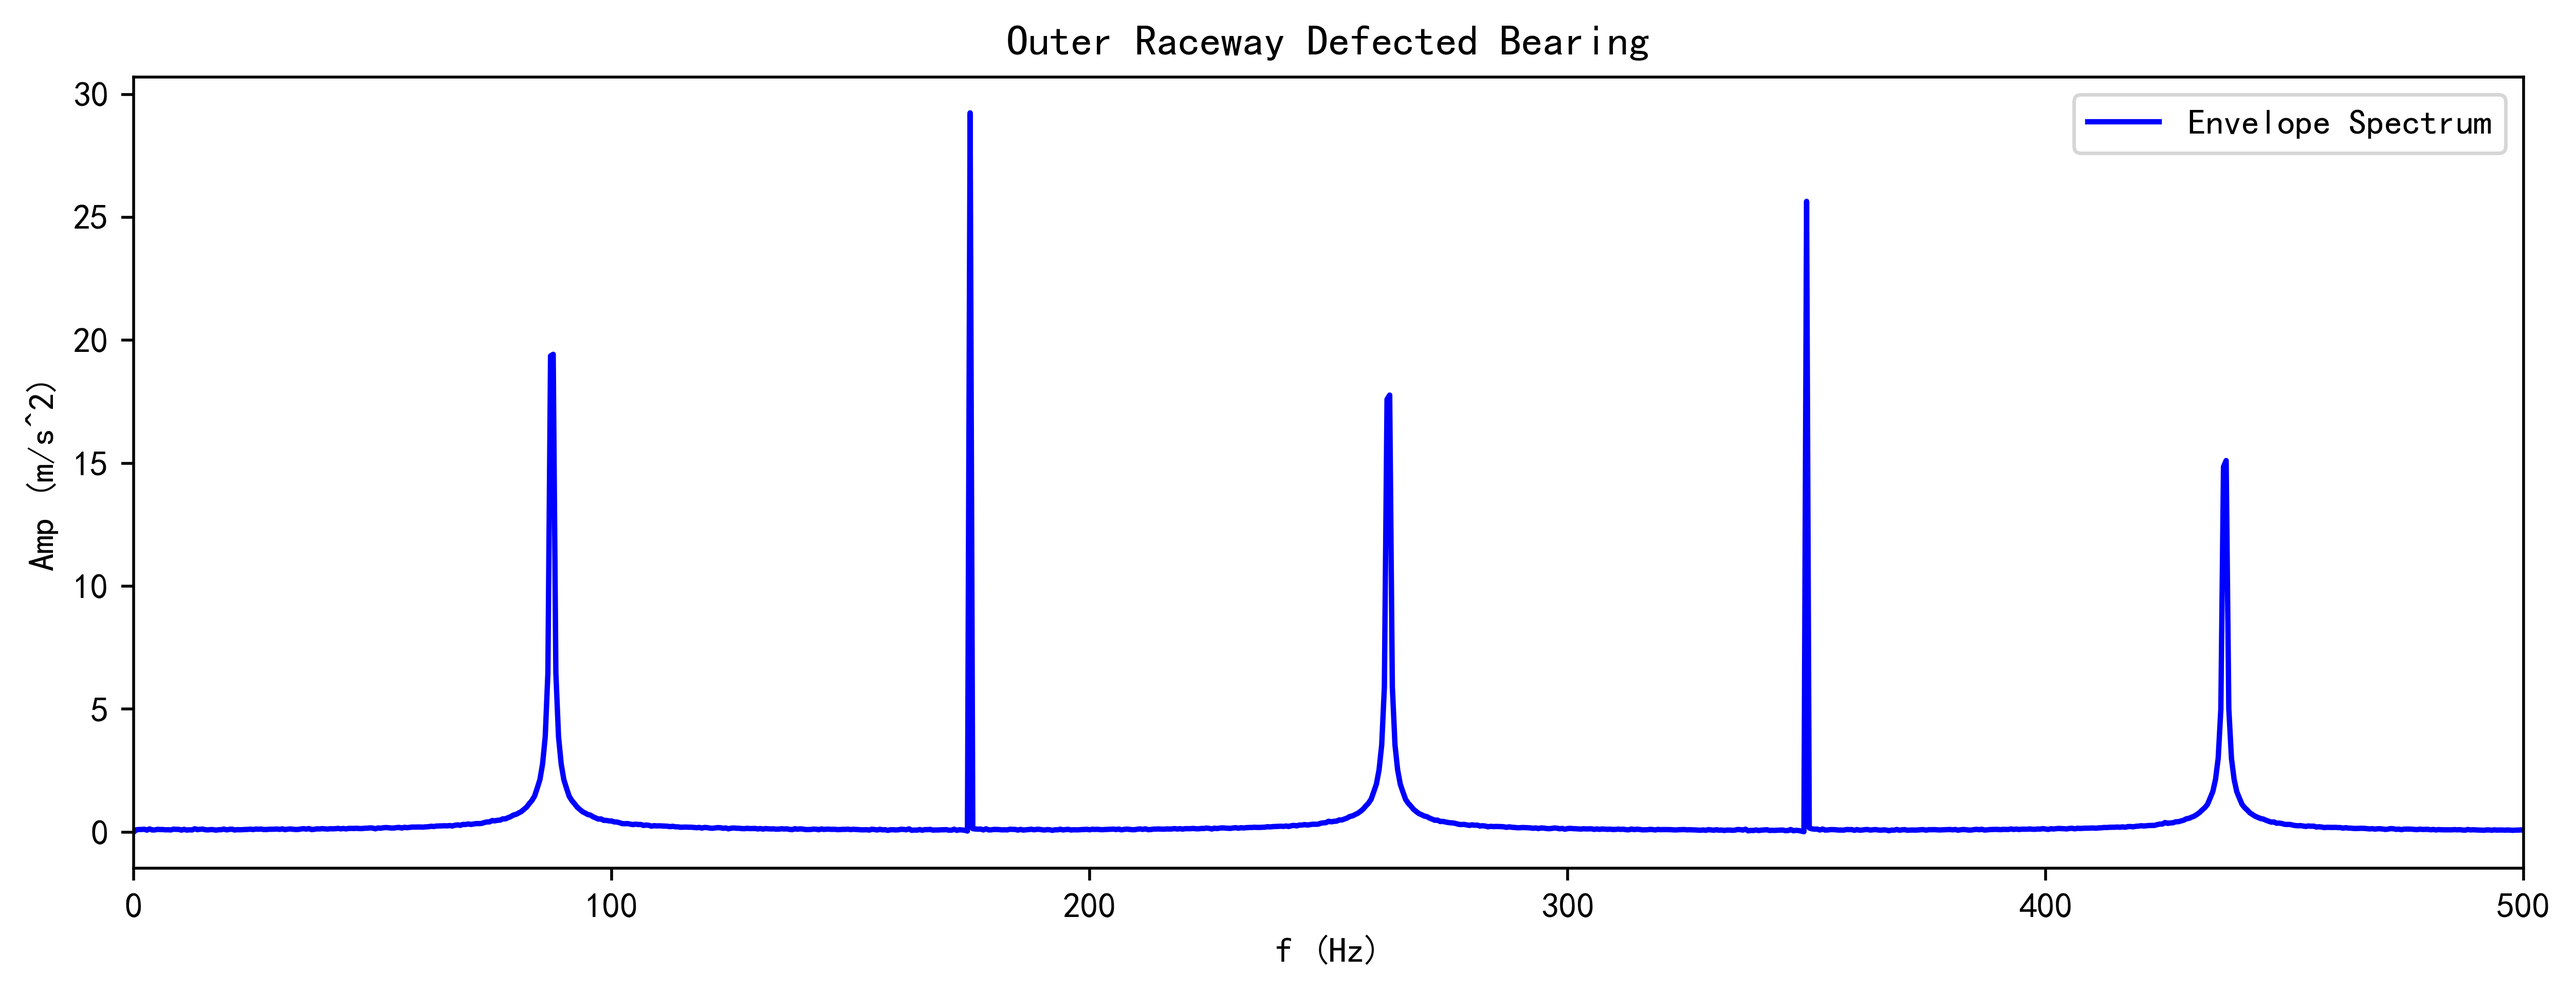
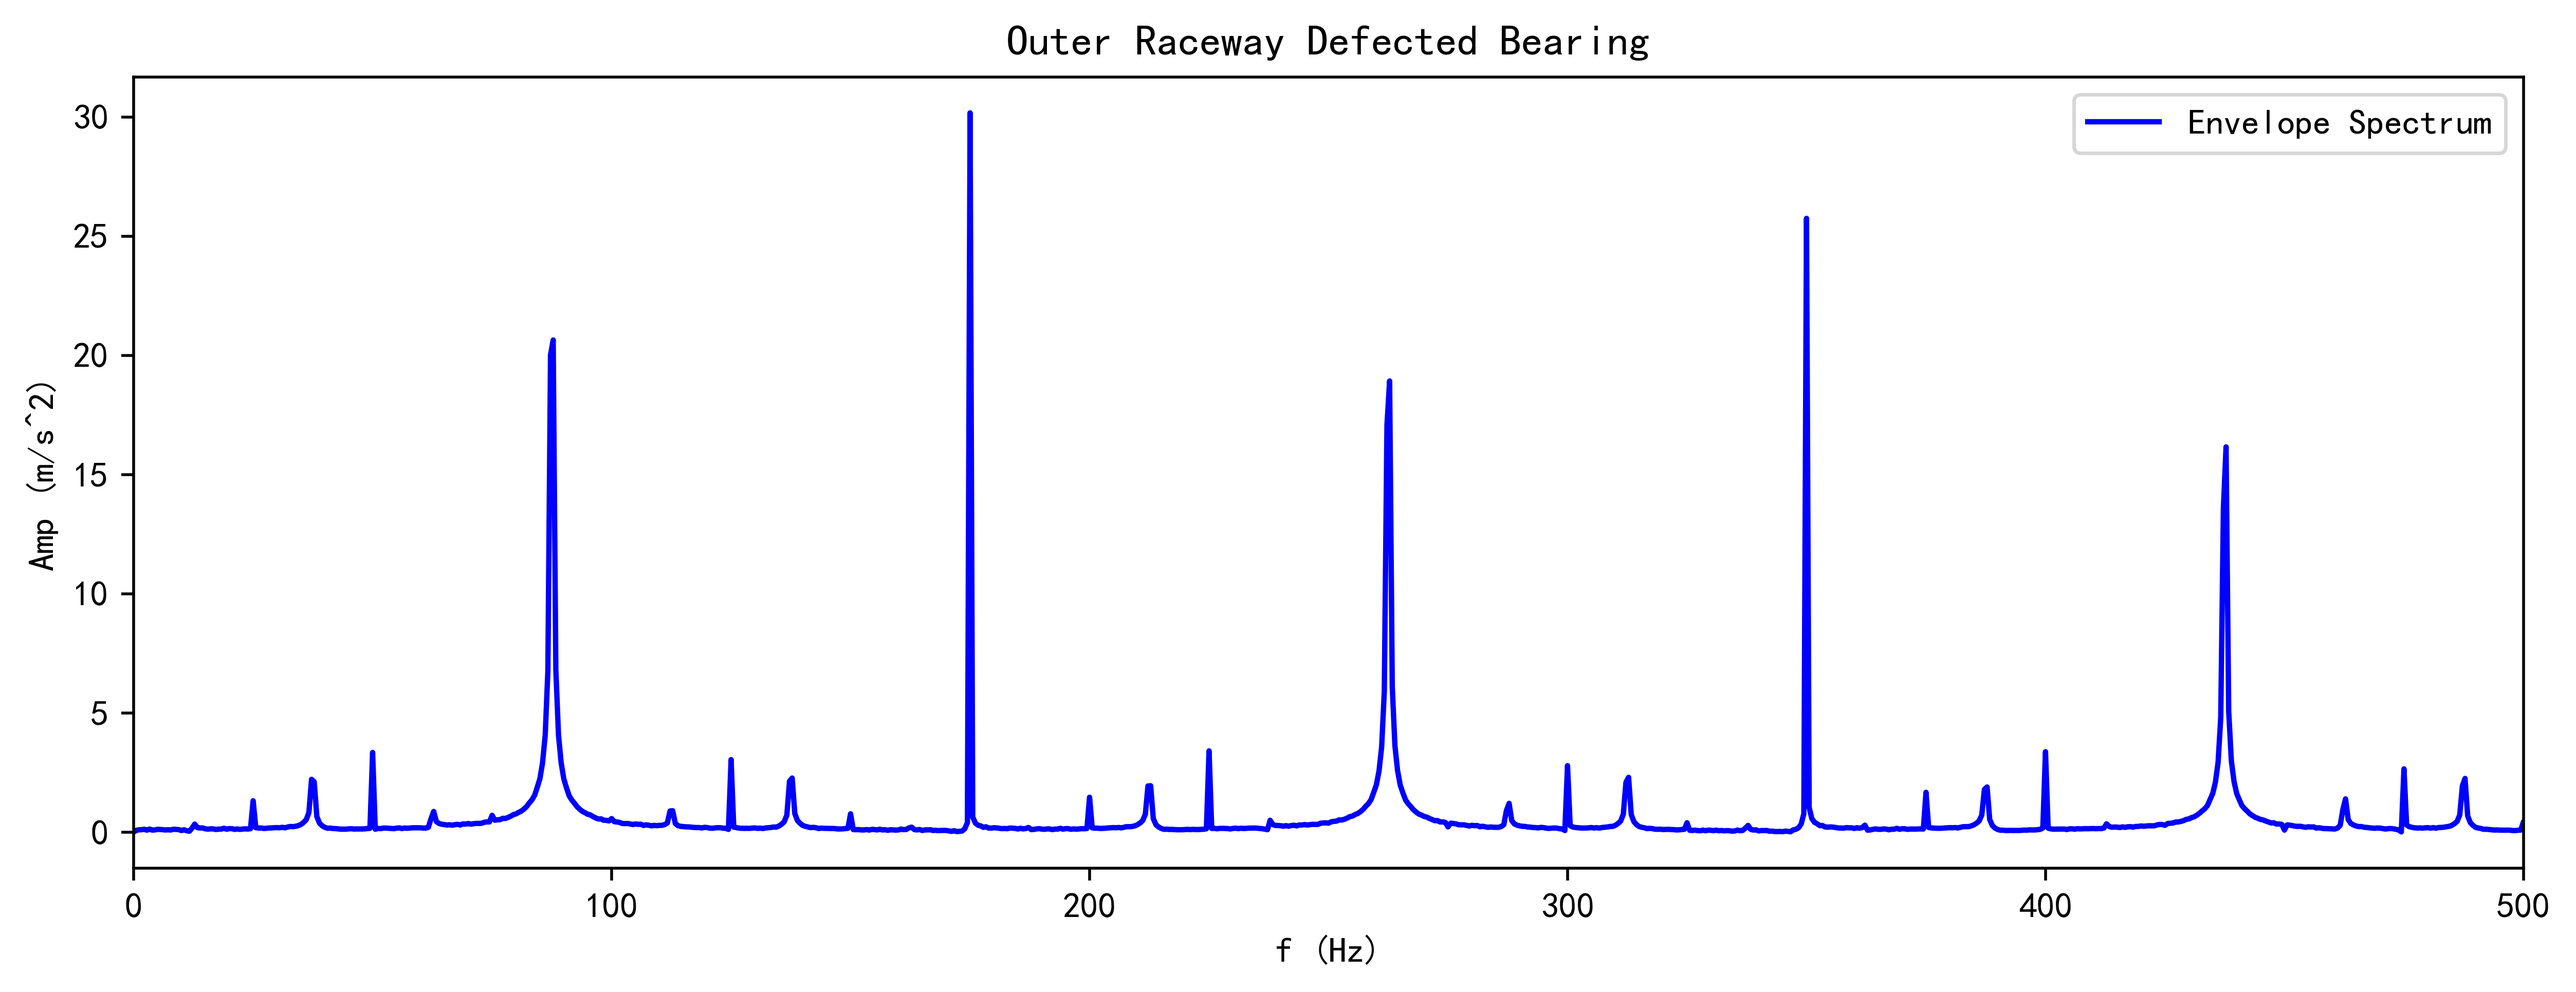
新增滚动体故障

diff --git a/main.py b/main.py
@@ -10,6 +10,7 @@ import mplcursors
 import dynamics_plot
 import time
 
+
 def load_K(filename):
     with open(f"{filename}.txt", "r") as f:
         lines = f.readlines()
@@ -164,8 +165,52 @@ def InnerDefect_bearing(fs=1e5, T=1):
     return result.t, dy
 
 
-def RollerDefect(fs=1e5, T=1):
-    pass
+def RollerDefect_bearing(fs=1e5, T=1):
+    filename = 'NUP205'
+    Ki, Ko = load_K(filename)
+    Nb = 13
+    mi = 5324.83e-9 * 7850
+    mo = 7664.64e-9 * 7850
+    Kbh = 1e7
+    Cbh = 1e3
+    Fr = 500
+    Rm = 19.5e-3
+    Rr = 3.75e-3
+    c = 1e-6
+    wi = 1000 / 60 * 2 * np.pi
+    wc = wi / 2 * (1 - Rr / Rm)
+    fs = int(fs)
+    t_span = np.linspace(0, T, T * fs + 1)
+    DOF = 4
+    y0 = np.zeros(DOF * 2)
+    '''
+    基于动力学仿真数据的双源域自适应滚动轴承故障诊断研究_梁栋.pdf
+    '''
+    B = 2e-3  # 故障宽度
+    phi_b = 2 * np.arcsin(B / 2 / Rr)
+    wr = wi * Rm / 2 / Rr * (1 - (Rr / Rm) ** 2)
+    Ro = Rm + Rr
+    Ri = Rm - Rr
+    Hbomax = Rr - np.sqrt(Rr ** 2 - (B / 2) ** 2) + Ro - np.sqrt(Ro ** 2 - (B / 2) ** 2)
+    Hbimax = Rr - np.sqrt(Rr ** 2 - (B / 2) ** 2) + Ri - np.sqrt(Ri ** 2 - (B / 2) ** 2)
+    alpha_b = 0
+    j = 1
+    # def ode_system(t, y,
+    #                Fr, Nb, mi, mo, wi, wc, Ki, Ko, Kbh, Cbh, c,
+    #                dC=0, phi_do=0, phi_oc=0,
+    #                dCi=0, phi_di=0, phi_oci=0,
+    #                Hbomax=0, Hbimax=0, phi_b=0, wr=0, alpha_b=0, j=1):
+    result = solve_ivp(BearingModel.ode_system, [0, T], y0, t_eval=t_span,
+                       args=(Fr, Nb, mi, mo, wi, wc, Ki, Ko, Kbh, Cbh, c,
+                             0, 0, 0,
+                             0, 0, 0,
+                             Hbomax, Hbimax, phi_b, wr, alpha_b, j))
+    dy = BearingModel.y_2_acc(result.t, result.y,
+                              Fr, Nb, mi, mo, wi, wc, Ki, Ko, Kbh, Cbh, c,
+                              0, 0, 0,
+                              0, 0, 0,
+                              Hbomax, Hbimax, phi_b, wr, alpha_b, j)
+    return result.t, dy
 
 
 def void_function():
@@ -188,23 +233,23 @@ if __name__ == '__main__':
     fs = 1e5
     start = time.time()
     # 健康轴承 频率分量：fvc
-    # t, y = healthy_bearing(fs=fs, T=T)
-    # index = 11  # 5
-    # signal = y[index, int(0.2 * fs):]
-    # dynamics_plot.plt_time_domain(signal, fs, show=False, xlim=0.055,
-    #                               img_save_path='NUP205/healthy_t.png', title='Healthy Bearing')
-    # dynamics_plot.plt_envelope_spectrum(signal, fs, show=False, xlim=500,
-    #                                     img_save_path='NUP205/healthy_f.png', title='Healthy Bearing')
+    t, y = healthy_bearing(fs=fs, T=T)
+    index = 11  # 5
+    signal = y[index, int(0.2 * fs):]
+    dynamics_plot.plt_time_domain(signal, fs, show=False, xlim=0.055,
+                                  img_save_path='NUP205/healthy_t.png', title='Healthy Bearing')
+    dynamics_plot.plt_envelope_spectrum(signal, fs, show=False, xlim=500,
+                                        img_save_path='NUP205/healthy_f.png', title='Healthy Bearing')
 
     # 外圈故障 频率分量：n * fbpfo
-    # t, y = OuterDefect_bearing(fs=fs, T=T)
-    # index = 11  # 5
-    # signal = y[index, int(0.2 * fs):]
-    # dynamics_plot.plt_time_domain(signal, fs, show=False, xlim=0.055,
-    #                               img_save_path='NUP205/outerdefect_t.png', title='Outer Raceway Defected Bearing')
-    # dynamics_plot.plt_envelope_spectrum(signal, fs, show=False, xlim=500,
-    #                                     img_save_path='NUP205/outerdefect_f.png',
-    #                                     title='Outer Raceway Defected Bearing')
+    t, y = OuterDefect_bearing(fs=fs, T=T)
+    index = 11  # 5
+    signal = y[index, int(0.2 * fs):]
+    dynamics_plot.plt_time_domain(signal, fs, show=False, xlim=0.055,
+                                  img_save_path='NUP205/outerdefect_t.png', title='Outer Raceway Defected Bearing')
+    dynamics_plot.plt_envelope_spectrum(signal, fs, show=False, xlim=500,
+                                        img_save_path='NUP205/outerdefect_f.png',
+                                        title='Outer Raceway Defected Bearing')
 
     # 内圈故障 频率分量：n * fi, n * fbpfi +- m * fi
     t, y = InnerDefect_bearing(fs=fs, T=T)
@@ -217,6 +262,14 @@ if __name__ == '__main__':
                                         title='Inner Raceway Defected Bearing')
 
     # 滚动体故障 频率分量：n * fc, n * fbsf +- m * fc
+    t, y = RollerDefect_bearing(fs=fs, T=T)
+    index = 11  # 5
+    signal = y[index, int(0.2 * fs):]
+    dynamics_plot.plt_time_domain(signal, fs, show=False, xlim=0.31,
+                                  img_save_path='NUP205/rollerdefect_t.png', title='Roller Defected Bearing')
+    dynamics_plot.plt_envelope_spectrum(signal, fs, show=False, xlim=500,
+                                        img_save_path='NUP205/rollerdefect_f.png',
+                                        title='Roller Defected Bearing')
 
     end = time.time()
     elapsed = end - start  # 秒

diff --git a/BearingModel.py b/BearingModel.py
@@ -8,7 +8,8 @@ from numba import njit
 def ode_system(t, y,
                Fr, Nb, mi, mo, wi, wc, Ki, Ko, Kbh, Cbh, c,
                dC=0, phi_do=0, phi_oc=0,
-               dCi=0, phi_di=0, phi_oci=0):
+               dCi=0, phi_di=0, phi_oci=0,
+               Hbomax=0, Hbimax=0, phi_b=0, wr=0, alpha_b=0, j=1):
     xi, yi, xo, yo, dxi, dyi, dxo, dyo = y
     phi_0 = wc * t
     phi = phi_0 + np.arange(Nb) / Nb * 2 * pi
@@ -24,8 +25,12 @@ def ode_system(t, y,
         Hdi = Hdi_calculate(phi, dCi, phi_di, phi_id)
     # 滚子故障位移激励控制
     Hdr = np.zeros_like(phi)
+    if Hbomax != 0 and Hbimax != 0 and wr != 0 and phi_b != 0:
+        beta = wr * t + 2 * pi * (j - 1) / Nb + alpha_b
+        beta = np.mod(beta, 2 * pi)
+        Hdr = Hdr_calculate(beta, Hbomax, Hbimax, phi_b, j, Nb)
     # 非线性(故障)激励计算
-    delta = delta_calculate(xi, yi, xo, yo, phi, c, Hdo, Hdi)
+    delta = delta_calculate(xi, yi, xo, yo, phi, c, Hdo, Hdi, Hdr)
     fx, fy = contact_force(phi, delta, Ki, Ko)
     ddxi = (-fx) / mi
     ddyi = (Fr - fy) / mi
@@ -42,8 +47,8 @@ def contact_force(phi, delta, Ki, Ko):
 
 
 @njit
-def delta_calculate(xi, yi, xo, yo, phi, c, Hdo, Hdi):
-    delta = (xi - xo) * cos(phi) + (yi - yo) * sin(phi) - c / 2 - Hdo - Hdi
+def delta_calculate(xi, yi, xo, yo, phi, c, Hdo, Hdi, Hdr):
+    delta = (xi - xo) * cos(phi) + (yi - yo) * sin(phi) - c / 2 - Hdo - Hdi - Hdr
     delta = np.maximum(delta, 0)
     return delta
 
@@ -66,15 +71,27 @@ def Hdi_calculate(phi, dCi, phi_di, phi_id):
 
 
 @njit
+def Hdr_calculate(beta, Hbomax, Hbimax, phi_b, j, Nb):
+    Hdr = np.zeros(Nb)
+    if np.abs(beta) <= phi_b:
+        Hdr[j - 1] = Hbomax
+    elif np.abs(beta - pi) <= phi_b:
+        Hdr[j - 1] = Hbimax
+    return Hdr
+
+
+@njit
 def y_2_acc(t, y,
             Fr, Nb, mi, mo, wi, wc, Ki, Ko, Kbh, Cbh, c,
             dC=0, phi_do=0, phi_oc=0,
-            dCi=0, phi_di=0, phi_oci=0):
+            dCi=0, phi_di=0, phi_oci=0,
+            Hbomax=0, Hbimax=0, phi_b=0, wr=0, alpha_b=0, j=1):
     acc = np.zeros((4, y.shape[1]))
     for i in range(y.shape[1]):
         acc[:, i] = ode_system(t[i], y[:, i],
                                Fr, Nb, mi, mo, wi, wc, Ki, Ko, Kbh, Cbh, c,
                                dC, phi_do, phi_oc,
-                               dCi, phi_di, phi_oci)[4:8]
+                               dCi, phi_di, phi_oci,
+                               Hbomax, Hbimax, phi_b, wr, alpha_b, j)[4:8]
     dy = np.vstack((y, acc))
     return dy

diff --git a/KeyStiffnesses.py b/KeyStiffnesses.py
@@ -54,6 +54,7 @@ def calculate(R1, R2, Rr, E, v, l, Q, filename):
     plt.savefig(filename + '.pdf', dpi=300)
     return const_i, const_o
 
+
 def save_K(Ki, Ko, filename):
     with open(f"{filename}.txt", "w") as f:
         f.write(f"{int(Ki[0].item())}\n")
@@ -62,14 +63,26 @@ def save_K(Ki, Ko, filename):
 
 if __name__ == '__main__':
     matplotlib.use('TkAgg')
-    R1 = 15.75e-3
-    R2 = 23.25e-3
-    Rr = 3.75e-3
+    # R1 = 15.75e-3
+    # R2 = 23.25e-3
+    # Rr = 3.75e-3
+    # E = 2.1e11
+    # v = 0.3
+    # l = 9e-3
+    # Q = np.linspace(0, 3000, 3001)
+    # filename = 'NUP205'
+    # Ki, Ko = calculate(R1, R2, Rr, E, v, l, Q, filename)
+    # save_K(Ki, Ko, filename)
+
+    Rr = 11e-3 / 2
+    Rm = 60.5e-3 / 2
+    R1 = Rm - Rr
+    R2 = Rm + Rr
+
     E = 2.1e11
     v = 0.3
-    l = 9e-3
+    l = 11e-3
     Q = np.linspace(0, 3000, 3001)
-    filename = 'NUP205'
+    filename = 'NJ208'
     Ki, Ko = calculate(R1, R2, Rr, E, v, l, Q, filename)
-    save_K(Ki,Ko,filename)
-
+    save_K(Ki, Ko, filename)

diff --git a/README.md b/README.md
@@ -23,6 +23,8 @@ _____
 
 2025年8月26日
 
+更新了滚动体故障响应及其包络谱绘制，对位移激励当前没有进行类似滚道故障的余弦处理。
+
 更新了内圈故障响应及其包络谱绘制，时域加速度较大，包络谱频率分量对比正确。
 
 使用numba的@njit修饰器加速，连续计算健康/外圈故障工况，耗时35s/1min38s。
